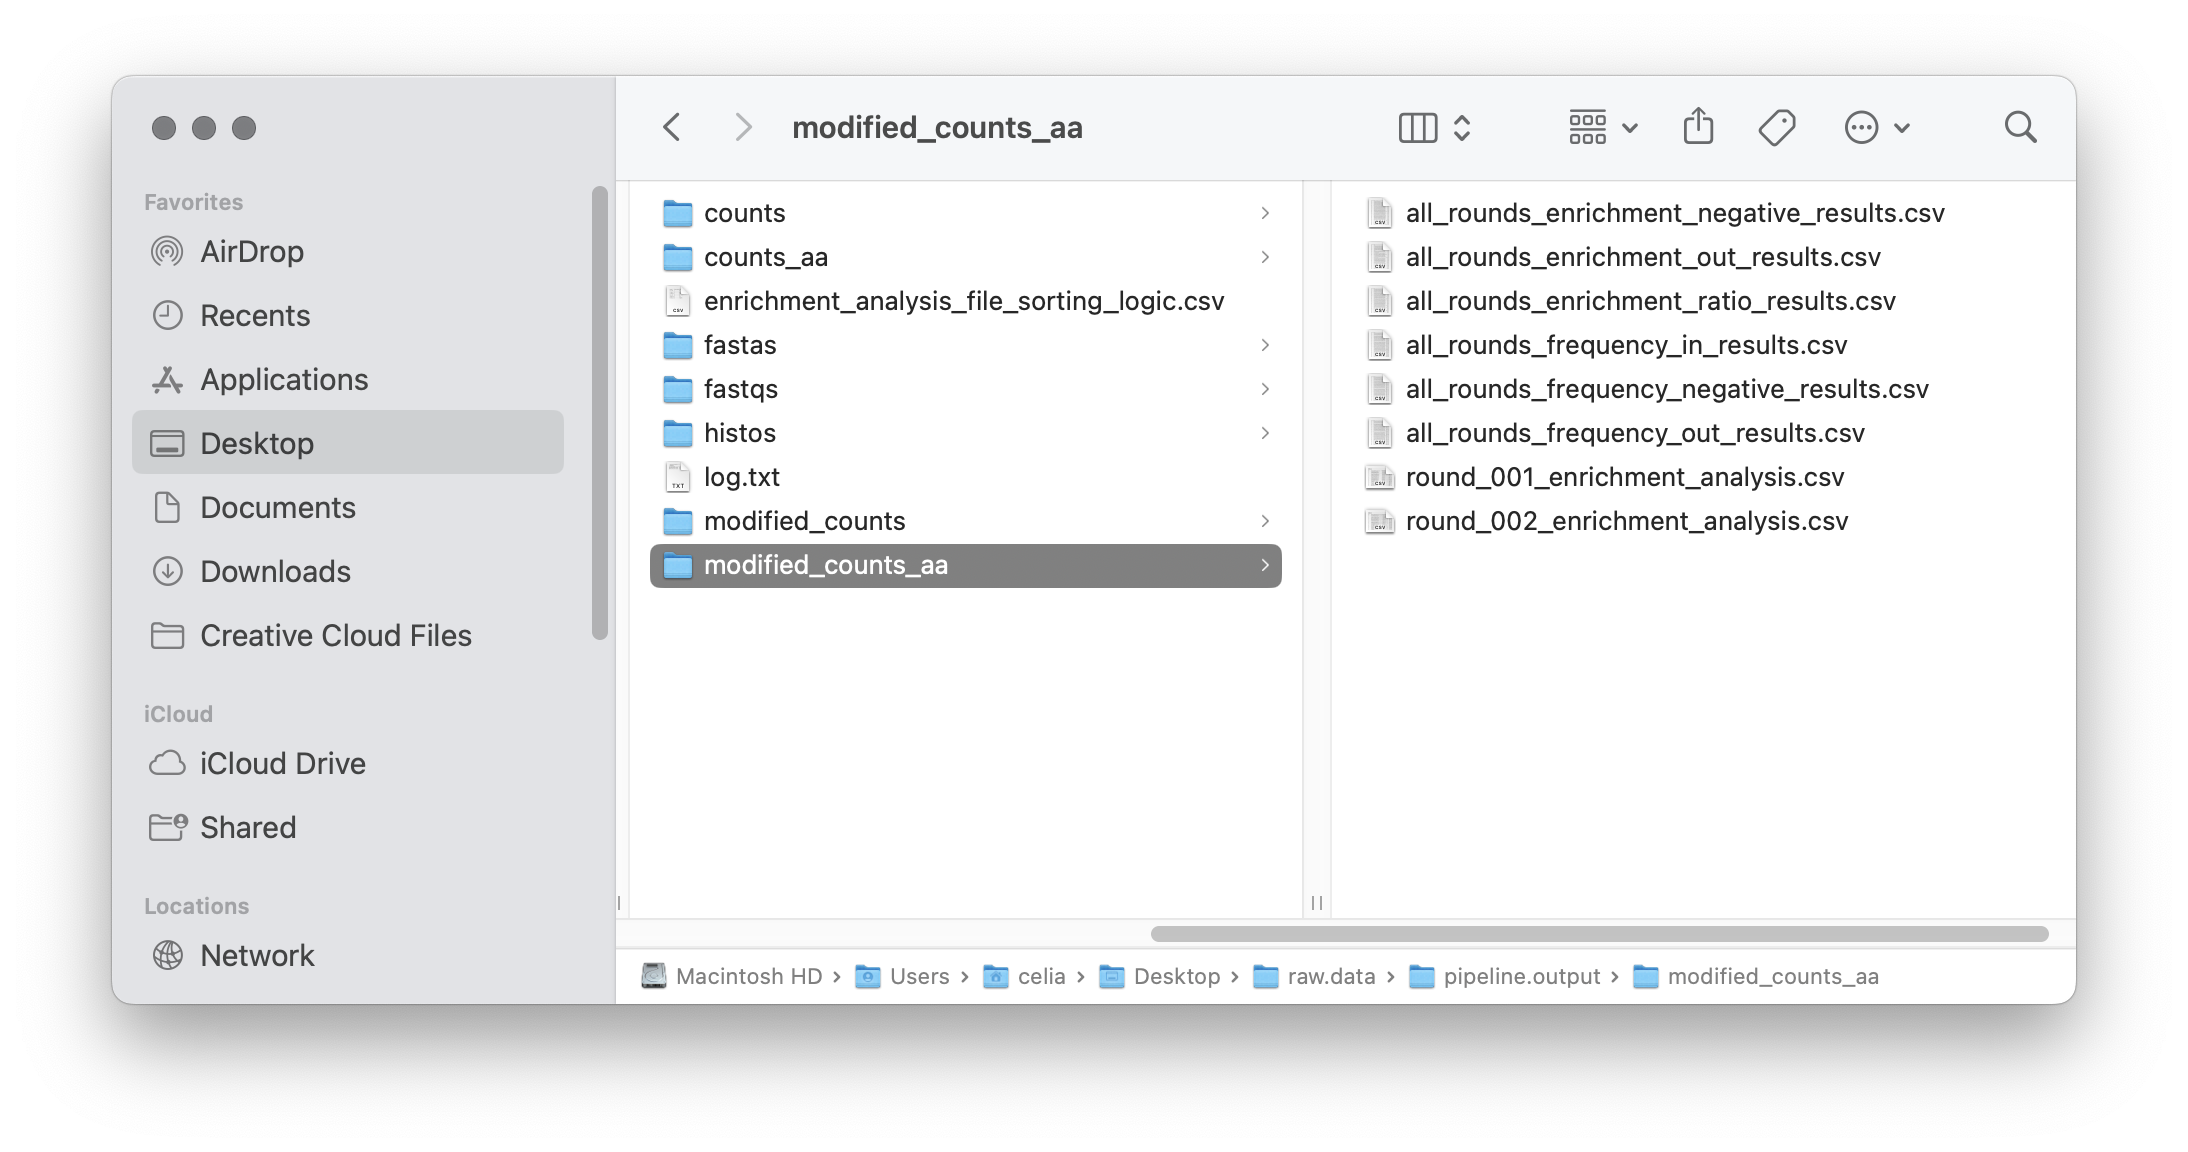
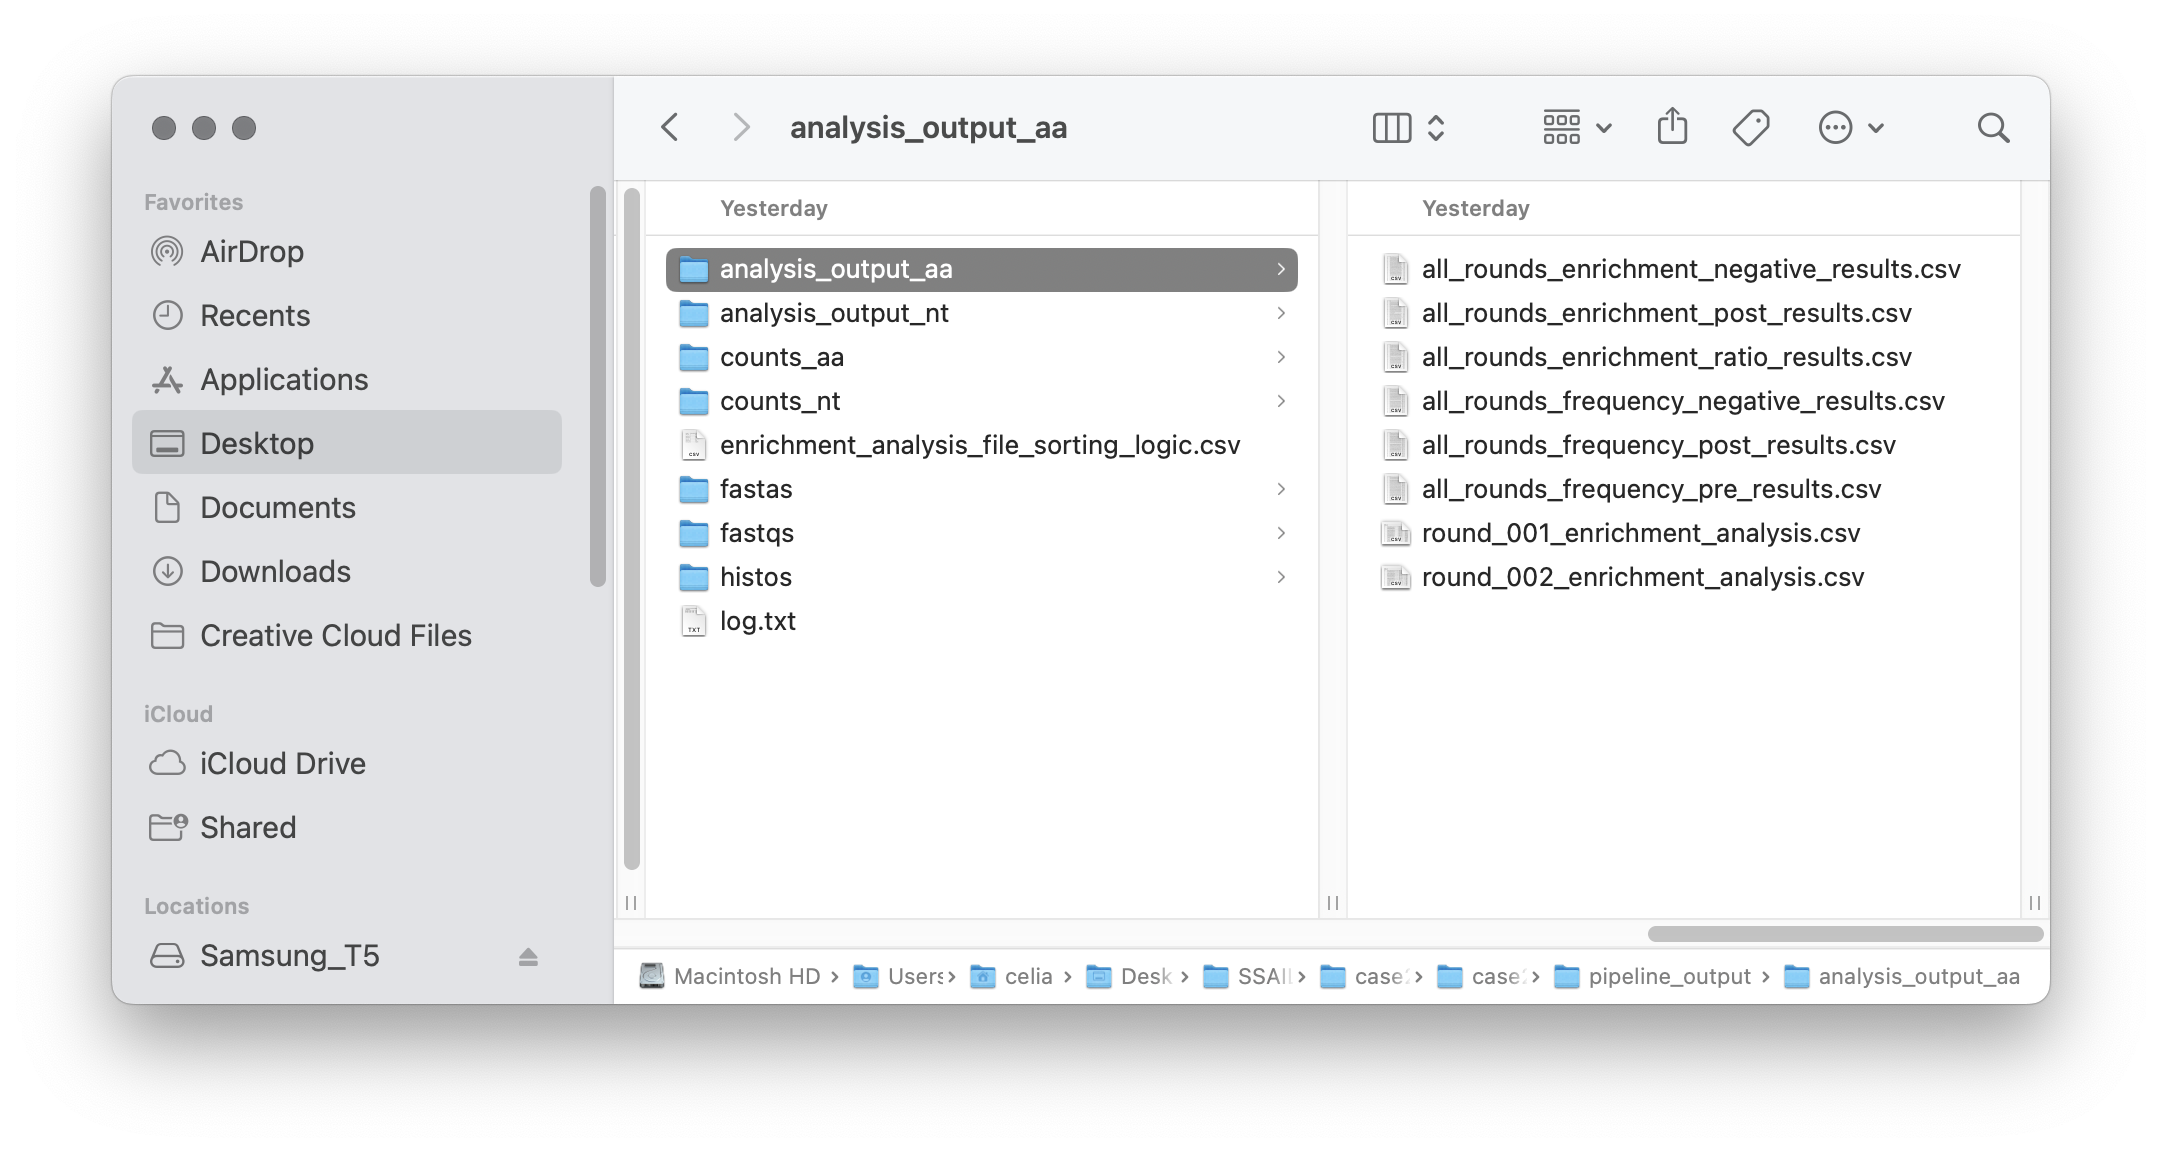
update easidverPlus, add nt, add underscores

diff --git a/docs/source/usage.rst b/docs/source/usage.rst
@@ -131,13 +131,15 @@ Once data processing and analysis is over, the output directory should have seve
 
 The seven folders contain the following:
 
-* **counts**: DNA counts files for every sample (unique sequences, count reads and frequency)
-* **counts.aa**: Amino acid counts files for every sample (unique sequences, count reads and frequency)
+* **counts_nt**: DNA counts files for every sample (unique sequences, count reads and frequency)
+* **counts_aa**: Amino acid counts files for every sample (unique sequences, count reads and frequency)
 * **fastas**: Joined fasta files
 * **fastqs**: Joined fastq files
 * **histos**: DNA sequence length distributions and the peptide sequence length distribution (if translation is required)
 * **log.txt**: Log file with information on the parameters used and the outcome of each processing step
-* **analysis_output_test_aa**: files (joined fasta files joined fastq files, text counts files and text 
+* **analysis_output_nt**: DNA enrichment analysis output files (one per round), and frequency and enrichment output files with metric for all sequences across all rounds
+* **analysis_output_aa**: Amino acid enrichment analysis output files (one per round), and frequency and enrichment output files with metric for all sequences across all rounds
+* **individual.lanes**: all processing files (joined fasta files, joined fastq files, text counts files and text 
   histograms) corresponding to the individual lanes (if requested using the flag -r)
 
 .. note::
@@ -233,11 +235,12 @@ Users can customize various cutoff cuttofs for the graphs by entering the desire
 The application will use the provided input parameters and the selected round to generate graphs.
 If the graphs are generated successfully, a confirmation message will appear.
 
-Since the test dataset corresponds to mRNA-displayed peptides, data type is set as ‘AA’. 
+Test dataset corresponds to mRNA-displayed peptides, so data type is set as ‘AA’. 
 For testing purposes, we will plot the metrics corresponding to the last round of selection (round 2).
 The button **Generate Graphs** will start the graph generation process. 
 Once completed, an HTML window displaying the plots will open.
 If no cutoff values are specified, the Graph Generator will include all data in the files (in this case, the plots will look crammed and probably, very ugly).
+If the HTML window is taking too long to open or it's not loading the contents approperly, try adding some cutoff values to reduce the number of points. 
 
 .. image:: _static/images/plot1.png
    :alt: EasyDiver+
@@ -250,6 +253,7 @@ There are two ways in which the user can choose to focus on specific areas or da
 2. By setting more stringent cutoff values. The user can fill the values in the Graph Generator interface as many times as needed, and a new HTML window will open every time **Generate Graphs** is selected.
 
 For example, increasing the Count_out cutoff threshold significantly reduces the number of data points being represented. 
+In this case, the minimum post-selection count is arbitrarely set to 200 and the maximum frequency in the negative selection to 0.05.
 
 .. image:: _static/images/plot2.png
    :alt: EasyDiver+
